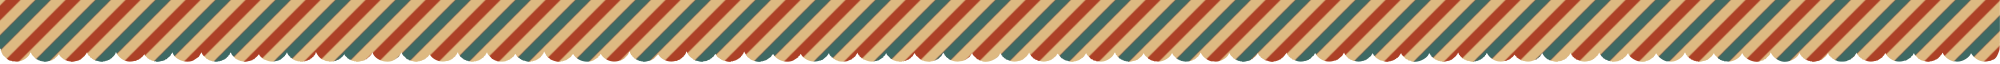
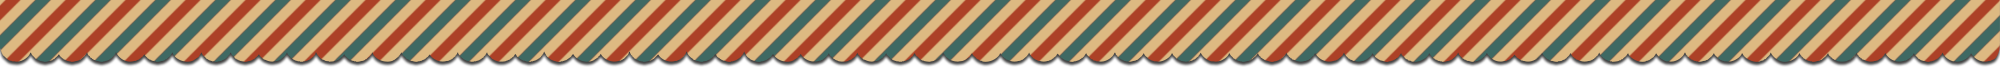
#ch-30 Fixed work 30m

Changed region(s): [[0.0, 0.1562, 1.0, 1.0], [0.093, 0.1875, 0.124, 0.2188], [0.062, 0.2188, 0.093, 0.25]]

diff --git a/app/assets/stylesheets/lib/homepage.css.sass b/app/assets/stylesheets/lib/homepage.css.sass
@@ -121,10 +121,14 @@
 
   .divider
     position: absolute
+    z-index: 2
     width: 100%
     height: 60px
     background: url(/images/dividers.png) 0 0
     margin: 0
+    -webkit-box-shadow: 0px 3px 5px 0px rgba(50, 50, 50, 0.75)
+    -moz-box-shadow:    0px 3px 5px 0px rgba(50, 50, 50, 0.75)
+    box-shadow:         0px 3px 5px 0px rgba(50, 50, 50, 0.75)
 
   #whatis-block
     position: relative
@@ -359,6 +363,10 @@
       background: url(/images/curved-divider.png)
       bottom: -9px
       z-index: 5
+      height: 67px
+      box-shadow: none
+      -moz-box-shadow: none
+      -webkit-box-shadow: none
 
   #feedback-block
     position: relative
